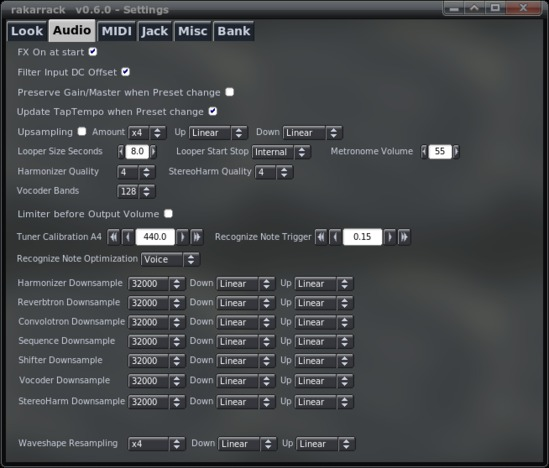
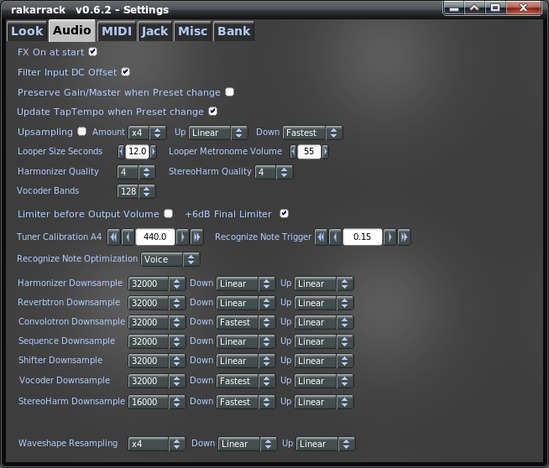
Update
modified:   effects.html
	modified:   general.html
	modified:   imagenes/Makefile.am
	new file:   imagenes/inf.jpg
	modified:   imagenes/settings1.jpg
	modified:   midiic.html

diff --git a/doc/help/effects.html b/doc/help/effects.html
@@ -32,7 +32,8 @@
       <a href="#Looper">Looper</a> <a href="#MuTroMojo">MuTroMojo</a> <a href="#Echoverse">Echoverse</a> 
       <a href="#CoilCrafter">CoilCrafter</a> <a href="#ShelfBoost">ShelfBoost</a> <a href="#Vocoder">Vocoder</a> 
       <a href="#Sustainer">Sustainer</a> <a href="#Sequence">Sequence</a> <a href="#Shifter">Shifter</a> 
-      <a href="#StompBox">StompBox</a> <a href="#Reverbtron">Reverbtron</a> <a href="#Echotron">Echotron</a> <a href="#StereoHarm">StereoHarm</a> <a href="#CompBand">CompBand</a> <a href="#Otrem">Opticaltrem</a> <a href="#Vibe">Vibe</a><br></p>
+      <a href="#StompBox">StompBox</a> <a href="#Reverbtron">Reverbtron</a> <a href="#Echotron">Echotron</a> <a href="#StereoHarm">StereoHarm</a> <a href="#CompBand">CompBand</a> <a href="#Otrem">Opticaltrem</a> <a href="#Vibe">Vibe</a> <a
+      href="#Infinity">Infinity</a><br></p>
 
 <p>The program has many effects, you can select any
 of the available effects. Ten can be used simultaneously. It
@@ -2454,6 +2455,20 @@ can be used to make a tremolo effect, particularly when St.df is set to 32
 <p><b>Pan</b>: Pan the effect to the left or right.  This can be used to change the
 color of the effect between left and right channels if Wet/Dry mix is set to
 a certain amount dry.</p>
+</td></tr></tbody>
+</table>
+<br>
+<p><a href="effects.html">Effects</a></p>
+<p><a href="help.html">Table of Contents</a> -  <a href="midilearn.html">MIDI Learn</a></p>
+
+<h3><a name="Infinity"></a>Infinity</h3>
+<br>
+<table cellpadding="5" cellspacing="2">
+<tbody><tr><td style="vertical-align: top;">
+      <p><img style="width: 180px; height: 250px;" src="imagenes/inf.jpg" alt="rakarrack Infinity"></p>
+      </td><td style="background-color: rgb(251, 251, 251); vertical-align: top;">
+      
+<p>Ininity</p>
 </td></tr></tbody>
 </table>
 <br>

diff --git a/doc/help/general.html b/doc/help/general.html
@@ -612,6 +612,8 @@ ShelfBoost.  Then you can overdrive it and use output volume to bring signal
 level down to a reasonable recording level.</p>
 </p>2) If you need a hard limiter to set the maximum to a certain level, this
 may prove to be a useful tool.</p>
+<p><b>+6dB Final Limiter</b></p>
+<p>This option add 6 dB to the final chain Limiter output signal</p>
 
 <p><b> Harmonizer, Reverbtron, Convolotron, Sequence, Shifter, Vocoder and
 StereoHarm Downsample</b></p>

diff --git a/doc/help/midiic.html b/doc/help/midiic.html
@@ -744,6 +744,7 @@
 63 = CompBand On/Off<br>
 64 = Opticaltrem On/Off<br>
 65 = Vibe On/Off<br>
+66 = Infinity On/Off<br>
 121= Tap Tempo On/Off<br>
 122= MIDI Converter On/Off<br>
 123= Tuner On/Off<br>
